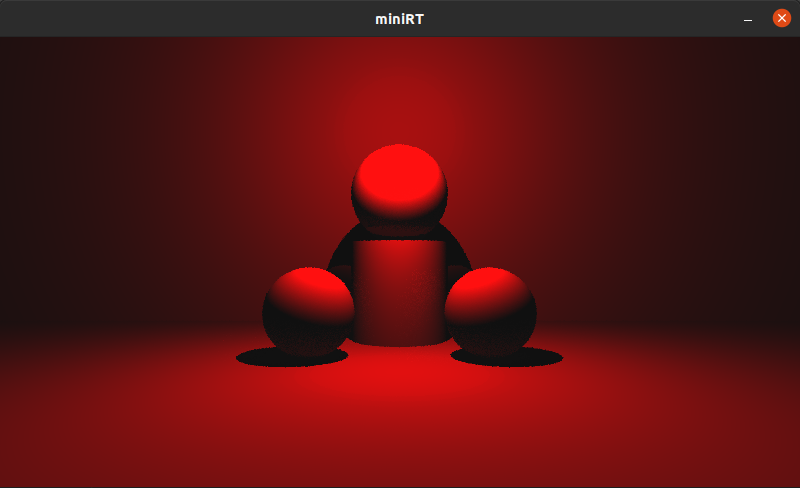
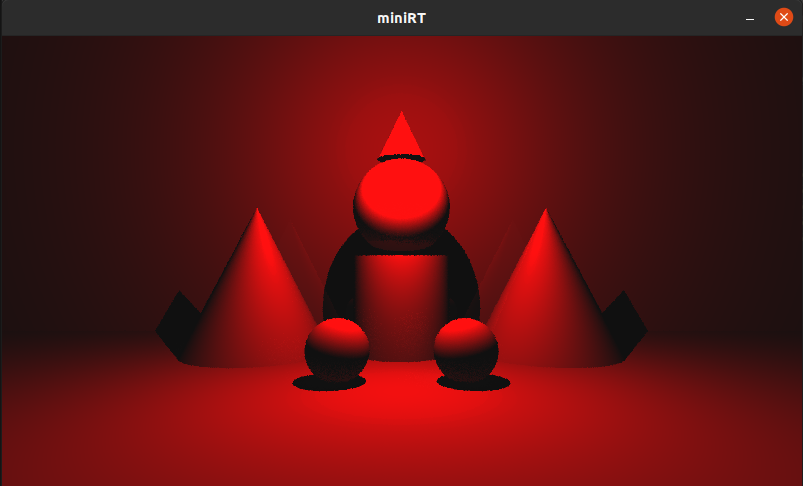
20221204_08:02

Changed region(s): [[0.0, 0.2469, 1.0, 1.0], [0.4688, 0.0, 0.5312, 0.0617], [0.9688, 0.0309, 1.0, 0.0617]]

diff --git a/miniRT/srcs_bonus/raytracing_bonus/raytracing_cone_1_bonus.c b/miniRT/srcs_bonus/raytracing_bonus/raytracing_cone_1_bonus.c
@@ -6,35 +6,39 @@
 /*   By: yhwang <yhwang@student.42.fr>              +#+  +:+       +#+        */
 /*                                                +#+#+#+#+#+   +#+           */
 /*   Created: 2022/12/03 17:54:17 by yhwang            #+#    #+#             */
-/*   Updated: 2022/12/04 02:33:35 by yhwang           ###   ########.fr       */
+/*   Updated: 2022/12/04 07:22:22 by yhwang           ###   ########.fr       */
 /*                                                                            */
 /* ************************************************************************** */
 
 #include "../incs_bonus/miniRT_bonus.h"
 
-t_vec3	calc_normal_vec_cone_body(t_data *data, int co_i)
+t_vec3	calc_normal_vec_cone_body(t_data *data, int co_i, double t_body)
 {
-	t_vec3	hit_normal;
-	double	val_cos;
-	double	val_sin;
+	double	delta;
+	double	cos_theta;
+	t_vec3	top_center;
+	t_vec3	hit_p;
+	double	k;
 
-	val_cos = data->obj[co_i]->height
-		/ sqrt(((data->obj[co_i]->diameter) / 2)
-			* ((data->obj[co_i]->diameter) / 2)
-			+ data->obj[co_i]->height
-			* data->obj[co_i]->height);
-	val_sin = sqrt(1 - val_cos * val_cos);
-	hit_normal
-		= vec3(val_cos * data->obj[co_i]->xyz_vec.x
-			+ -1 * val_sin * data->obj[co_i]->xyz_vec.y
-			+ 0 * data->obj[co_i]->xyz_vec.z,
-			val_sin * data->obj[co_i]->xyz_vec.x
-			+ val_cos * data->obj[co_i]->xyz_vec.y
-			+ 0 * data->obj[co_i]->xyz_vec.z,
-			0 * data->obj[co_i]->xyz_vec.x
-			+ 0 * data->obj[co_i]->xyz_vec.y
-			+ 1 * data->obj[co_i]->xyz_vec.z);
-	return (hit_normal);
+	delta = data->obj[co_i]->height / 2
+		* sqrt(1 / (data->obj[co_i]->xyz_vec.x * data->obj[co_i]->xyz_vec.x
+				+ data->obj[co_i]->xyz_vec.y * data->obj[co_i]->xyz_vec.y
+				+ data->obj[co_i]->xyz_vec.z * data->obj[co_i]->xyz_vec.z));
+	top_center
+		= vec3(data->obj[co_i]->xyz_pos.x + delta * data->obj[co_i]->xyz_vec.x,
+			data->obj[co_i]->xyz_pos.y + delta * data->obj[co_i]->xyz_vec.y,
+			data->obj[co_i]->xyz_pos.z + delta * data->obj[co_i]->xyz_vec.z);
+	cos_theta = data->obj[co_i]->height / sqrt((data->obj[co_i]->diameter / 2)
+			* (data->obj[co_i]->diameter / 2)
+			+ data->obj[co_i]->height * data->obj[co_i]->height);
+	hit_p = vec3_add_vec3(data->ray->point,
+			vec3_mul_rn(data->ray->direc, t_body));
+	k = sqrt((hit_p.x - top_center.x) * (hit_p.x - top_center.x)
+			+ (hit_p.y - top_center.y) * (hit_p.y - top_center.y)
+			+ (hit_p.z - top_center.z) * (hit_p.z - top_center.z)) / cos_theta;
+	return (vec3_unit(vec3_sub_vec3(hit_p,
+				vec3_sub_vec3(top_center,
+					vec3_mul_rn(data->obj[co_i]->xyz_vec, k)))));
 }
 
 int	hit_cone(t_data *data, t_hit *hit, int co_i, double distance)
@@ -51,13 +55,13 @@ int	hit_cone(t_data *data, t_hit *hit, int co_i, double distance)
 	if (t_body < t_circle)
 	{
 		set_hit_point(data, hit, t_body);
-		hit->normal_vec = calc_normal_vec_cone_body(data, co_i);
+		hit->normal_vec = calc_normal_vec_cone_body(data, co_i, t_body);
 		set_hit_normal_direc(data, hit);
 	}
 	else
 	{
 		set_hit_point(data, hit, t_circle);
-		hit->normal_vec = data->obj[co_i]->xyz_vec;
+		hit->normal_vec = vec3_mul_rn(data->obj[co_i]->xyz_vec, -1);
 		set_hit_normal_direc(data, hit);
 	}
 	hit->surface = data->obj[co_i]->surface;
@@ -66,15 +70,15 @@ int	hit_cone(t_data *data, t_hit *hit, int co_i, double distance)
 	return (0);
 }
 
-int	light_hit_co(t_data *data, int cy_i, double distance)
+int	light_hit_co(t_data *data, int co_i, double distance)
 {
 	double	t_body;
 	double	t_circle;
 
-	if (data->obj[cy_i]->obj_type != CONE)
+	if (data->obj[co_i]->obj_type != CONE)
 		return (1);
-	t_body = check_cone_body(data, cy_i, distance);
-	t_circle = check_cone_circle(data, cy_i, distance);
+	t_body = check_cone_body(data, co_i, distance);
+	t_circle = check_cone_circle(data, co_i, distance);
 	if (t_body == INFINITY && t_circle == INFINITY)
 		return (1);
 	return (0);

diff --git a/miniRT/srcs_bonus/raytracing_bonus/raytracing_cone_2_bonus.c b/miniRT/srcs_bonus/raytracing_bonus/raytracing_cone_2_bonus.c
@@ -6,7 +6,7 @@
 /*   By: yhwang <yhwang@student.42.fr>              +#+  +:+       +#+        */
 /*                                                +#+#+#+#+#+   +#+           */
 /*   Created: 2022/12/03 17:54:32 by yhwang            #+#    #+#             */
-/*   Updated: 2022/12/04 02:30:39 by yhwang           ###   ########.fr       */
+/*   Updated: 2022/12/04 07:23:17 by yhwang           ###   ########.fr       */
 /*                                                                            */
 /* ************************************************************************** */
 
@@ -81,10 +81,10 @@ double	check_cone_body(t_data *data, int co_i, double distance)
 	norminette_check_cone_body(data, co_i, d, &top_center);
 	if (d[1] * d[1] - d[0] * d[2] < 0)
 		return (INFINITY);
-	t_body = (-1 * d[1] - sqrt(d[1] * d[1] - d[0] * d[2])) / d[0];
+	t_body = (-1 * d[1] + sqrt(d[1] * d[1] - d[0] * d[2])) / d[0];
 	if (t_body < 0.00001 || distance < t_body)
 	{
-		t_body = (-1 * d[1] + sqrt(d[1] * d[1] - d[0] * d[2])) / d[0];
+		t_body = (-1 * d[1] - sqrt(d[1] * d[1] - d[0] * d[2])) / d[0];
 		if (t_body < 0.00001 || distance < t_body)
 			return (INFINITY);
 	}

diff --git a/miniRT/incs_bonus/miniRT_raytracing_bonus.h b/miniRT/incs_bonus/miniRT_raytracing_bonus.h
@@ -6,7 +6,7 @@
 /*   By: yhwang <yhwang@student.42.fr>              +#+  +:+       +#+        */
 /*                                                +#+#+#+#+#+   +#+           */
 /*   Created: 2022/11/30 22:06:51 by yhwang            #+#    #+#             */
-/*   Updated: 2022/12/04 02:31:10 by yhwang           ###   ########.fr       */
+/*   Updated: 2022/12/04 07:24:49 by yhwang           ###   ########.fr       */
 /*                                                                            */
 /* ************************************************************************** */
 
@@ -118,9 +118,9 @@ int		check_cy_circle_radius(t_data *data,
 double	check_cylinder_circle(t_data *data, int cy_i, double distance);
 
 /* raytracing_cone_1_bonus */
-t_vec3	calc_normal_vec_cone_body(t_data *data, int co_i);
+t_vec3	calc_normal_vec_cone_body(t_data *data, int co_i, double t_body);
 int		hit_cone(t_data *data, t_hit *hit, int co_i, double distance);
-int		light_hit_co(t_data *data, int cy_i, double distance);
+int		light_hit_co(t_data *data, int co_i, double distance);
 
 /* raytracing_cone_2_bonus */
 void	norminette_check_cone_body(t_data *data,

diff --git a/miniRT/srcs_bonus/raytracing_bonus/raytracing_cone_3_bonus.c b/miniRT/srcs_bonus/raytracing_bonus/raytracing_cone_3_bonus.c
@@ -6,7 +6,7 @@
 /*   By: yhwang <yhwang@student.42.fr>              +#+  +:+       +#+        */
 /*                                                +#+#+#+#+#+   +#+           */
 /*   Created: 2022/12/04 02:18:48 by yhwang            #+#    #+#             */
-/*   Updated: 2022/12/04 02:22:59 by yhwang           ###   ########.fr       */
+/*   Updated: 2022/12/04 06:17:27 by yhwang           ###   ########.fr       */
 /*                                                                            */
 /* ************************************************************************** */
 

diff --git a/miniRT/srcs_bonus/raytracing_bonus/raytracing_light_bonus.c b/miniRT/srcs_bonus/raytracing_bonus/raytracing_light_bonus.c
@@ -6,7 +6,7 @@
 /*   By: yhwang <yhwang@student.42.fr>              +#+  +:+       +#+        */
 /*                                                +#+#+#+#+#+   +#+           */
 /*   Created: 2022/11/12 22:04:52 by yhwang            #+#    #+#             */
-/*   Updated: 2022/12/04 00:54:42 by yhwang           ###   ########.fr       */
+/*   Updated: 2022/12/04 06:52:16 by yhwang           ###   ########.fr       */
 /*                                                                            */
 /* ************************************************************************** */
 
